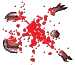
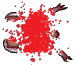
updated zombie death animation
Redraw zombie death animation (bloody)
Changed the mechanism of how zombie death animation is played, increased performance a lot. (no lag)

diff --git a/zombie.py b/zombie.py
@@ -3,6 +3,7 @@ from pygame.sprite import Sprite
 import math
 import random
 import math
+from setting import Settings
 
 
 class Zombie(Sprite):
@@ -10,6 +11,28 @@ class Zombie(Sprite):
     Zombie class
 
     """
+    # load zombie death resources as class variable to improve performance
+    # images are stored separately for rotation purpose (sprite sheet does not help)
+    death_images = []
+    # seed = random.randint(1, 3)
+    game_settings = Settings()
+    seed = 3
+    if seed == 1:
+        zombie_death_sheet = game_settings.zombie_death_sheet_1
+    elif seed == 2:
+        zombie_death_sheet = game_settings.zombie_death_sheet_2
+    elif seed == 3:
+        zombie_death_sheet = game_settings.zombie_death_sheet_3
+
+    death_images = []
+
+    # load last frame of corpse
+    for i in range(game_settings.zombie_corpse_display_frame):
+        death_images.append(pygame.image.load(zombie_death_sheet[0]))
+    # load previous death frame
+    for i in range(len(zombie_death_sheet)):
+        for j in range(game_settings.zombie_death_frame_multiplier):
+            death_images.append(pygame.image.load(zombie_death_sheet[i]))
 
     def __init__(self, game_settings, screen, player):
         super().__init__()
@@ -33,10 +56,32 @@ class Zombie(Sprite):
         self.attack_angle = 0
 
         # create another pair of image and rect for rotated version, and update them
-        self.rotated_image = pygame.image.load("img/zombie.jpg")
+        self.rotated_image = pygame.image.load("img/zombie.png")
         self.updated_rect = self.rotated_image.get_rect()
         self.angle = None
         self.update()
+
+        # # load zombie death resources
+        # # images are stored separately for rotation purpose (sprite sheet does not help)
+        # self.death_images = []
+        # # seed = random.randint(1, 3)
+        # seed = 3
+        # if seed == 1:
+        #     self.zombie_death_sheet = game_settings.zombie_death_sheet_1
+        # elif seed == 2:
+        #     self.zombie_death_sheet = game_settings.zombie_death_sheet_2
+        # elif seed == 3:
+        #     self.zombie_death_sheet = game_settings.zombie_death_sheet_3
+        #
+        # self.death_images = []
+        #
+        # # load last frame of corpse
+        # for i in range(self.game_settings.zombie_corpse_display_frame):
+        #     self.death_images.append(pygame.image.load(self.zombie_death_sheet[0]))
+        # # load previous death frame
+        # for i in range(len(self.zombie_death_sheet)):
+        #     for j in range(self.game_settings.zombie_death_frame_multiplier):
+        #         self.death_images.append(pygame.image.load(self.zombie_death_sheet[i]))
 
         # record the time of last attacking
         self.last_attacking_time = 0
@@ -139,34 +184,18 @@ class DeadZombie(Sprite):
     This class is used to draw the dead zombie animation
     """
 
-    def __init__(self, angle, rect, game_settings, screen):
+    def __init__(self, zombie):
         # initialiation of base class (Sprite)
         super().__init__()
 
         # get the rotated angle and position of current zombie
         # get the display screen from current zombie
-        self.angle = angle
-        self.rect = rect
-        self.screen = screen
-        self.game_settings = game_settings
-
-        # load zombie death image series
-        # images are stored separately for rotation purpose (sprite sheet does not help)
-        self.death_images = []
-        seed = random.randint(1, 2)
-
-        if seed == 1:
-            zombie_death_sheet = game_settings.zombie_death_sheet_1
-        elif seed == 2:
-            zombie_death_sheet = game_settings.zombie_death_sheet_2
-
-        # load last frame of corpse
-        for i in range(game_settings.zombie_death_display_frame):
-            self.death_images.append(pygame.image.load(zombie_death_sheet[0]))
-        # load previous death frame
-        for i in range(len(zombie_death_sheet)):
-            for j in range(game_settings.zombie_death_frame_multiplier):
-                self.death_images.append(pygame.image.load(zombie_death_sheet[i]))
+        self.angle = zombie.angle
+        self.rect = zombie.rect
+        self.screen = zombie.screen
+        self.game_settings = zombie.game_settings
+        self.zombie_death_sheet = zombie.zombie_death_sheet
+        self.death_images = zombie.death_images[:]
 
     def blit_death_frame(self):
         """
@@ -176,7 +205,9 @@ class DeadZombie(Sprite):
         :return:
         """
         rotated_image = pygame.transform.rotate(self.death_images[-1], 180 - self.angle)
+        # self.screen.blit(rotated_image, (self.rect[0] - 22, self.rect[1] - 19, self.rect[2] * 2, self.rect[3] * 2))
         self.screen.blit(rotated_image, self.rect)
+        print('zombie rect (x, y):', self.rect)
 
     def update(self):
         # remove the last frame

diff --git a/setting.py b/setting.py
@@ -38,7 +38,7 @@ class Settings:
         self.allowed_margin = 20  # minimum allowed distance of player to edge 
 
         # zombie settings
-        self.zombie_image = "img/zombie.jpg"
+        self.zombie_image = "img/zombie.png"
         self.zombie_death_sheet_1 = ["img/zombie_death/death_1/6.png", "img/zombie_death/death_1/5.png",
                                      "img/zombie_death/death_1/4.png", "img/zombie_death/death_1/3.png",
                                      "img/zombie_death/death_1/2.png", "img/zombie_death/death_1/1.png"]
@@ -47,12 +47,22 @@ class Settings:
                                      "img/zombie_death/death_2/4.png", "img/zombie_death/death_2/3.png",
                                      "img/zombie_death/death_2/2.png", "img/zombie_death/death_2/1.png"]
 
+        self.zombie_death_sheet_3 = ["img/zombie_death/death_3/15.png", "img/zombie_death/death_3/14.png", "img/zombie_death/death_3/13.png",
+                                     "img/zombie_death/death_3/12.png", "img/zombie_death/death_3/11.png", "img/zombie_death/death_3/10.png",
+                                     "img/zombie_death/death_3/9.png", "img/zombie_death/death_3/8.png", "img/zombie_death/death_3/7.png",
+                                     "img/zombie_death/death_3/6.png", "img/zombie_death/death_3/5.png", "img/zombie_death/death_3/4.png",
+                                     "img/zombie_death/death_3/3.png", "img/zombie_death/death_3/2.png", "img/zombie_death/death_3/1.png"]
+
+        # self.zombie_death_sheet_3 = ["img/zombie_death/death_3/15.png", "img/zombie_death/death_3/14.png", "img/zombie_death/death_3/13.png",
+        #                              "img/zombie_death/death_3/12.png", "img/zombie_death/death_3/11.png", "img/zombie_death/death_3/10.png",
+        #                              "img/zombie_death/death_3/9.png"]
+
         self.zombie_death_frame_multiplier = 5
-        self.zombie_death_display_frame = 200  # how many frames to keep corpse of zombie
+        self.zombie_corpse_display_frame = 1000  # how many frames to keep corpse of zombie
 
         self.zombie_speed = 3
         self.spawn_distance = 0  # distance to edge of screen, zombies are spawned outside of screen
-        self.spawn_time = 2000  # time to spawn a zombie, in milliseconds
+        self.spawn_time = 1500  # time to spawn a zombie, in milliseconds
 
         self.zombie_damage = 20  # max damage to player's hp (each attack)
         self.zombie_attack_interval = 1000  # attack time interval, in ms

diff --git a/game_functions.py b/game_functions.py
@@ -189,7 +189,7 @@ def shoot_zombie(zombies, bullets, dead_zombies, player):
                 zombies.remove(zombie)
 
                 # create a new dead zombie and add to dead_zombies
-                new_dead_zombie = DeadZombie(zombie.angle, zombie.updated_rect, zombie.game_settings, zombie.screen)
+                new_dead_zombie = DeadZombie(zombie)
                 dead_zombies.add(new_dead_zombie)
                 
                 # update player's kill score

diff --git a/2D_shooting_game.py b/2D_shooting_game.py
@@ -13,5 +13,5 @@ pygame.display.set_caption(game_settings.caption)
 player = PlayerPistol(screen, game_settings)
 
 # run welcome screen
-# gf.welcome_screen(screen, game_settings, player)
-gf.run_game(screen, game_settings, player)
+gf.welcome_screen(screen, game_settings, player)
+# gf.run_game(screen, game_settings, player)
